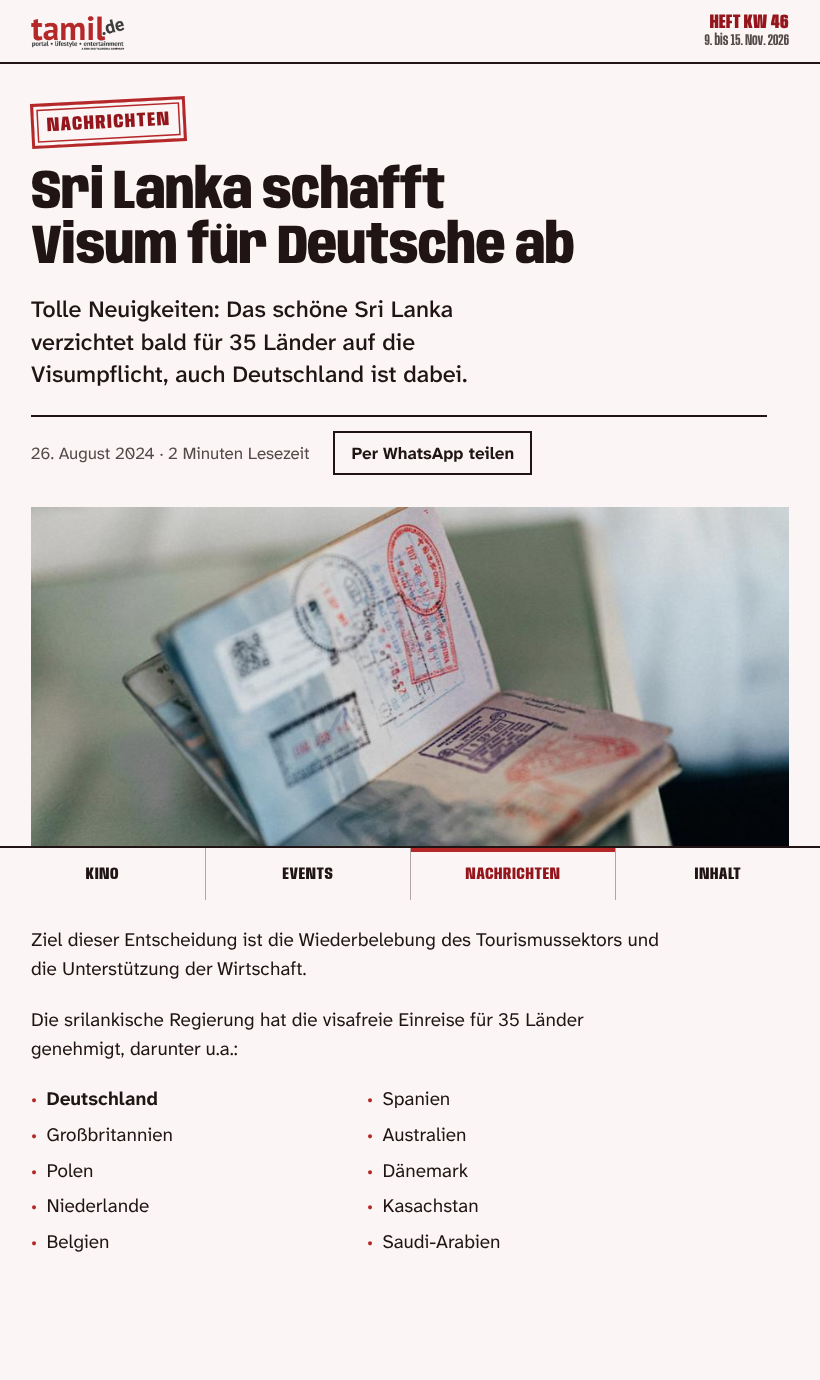
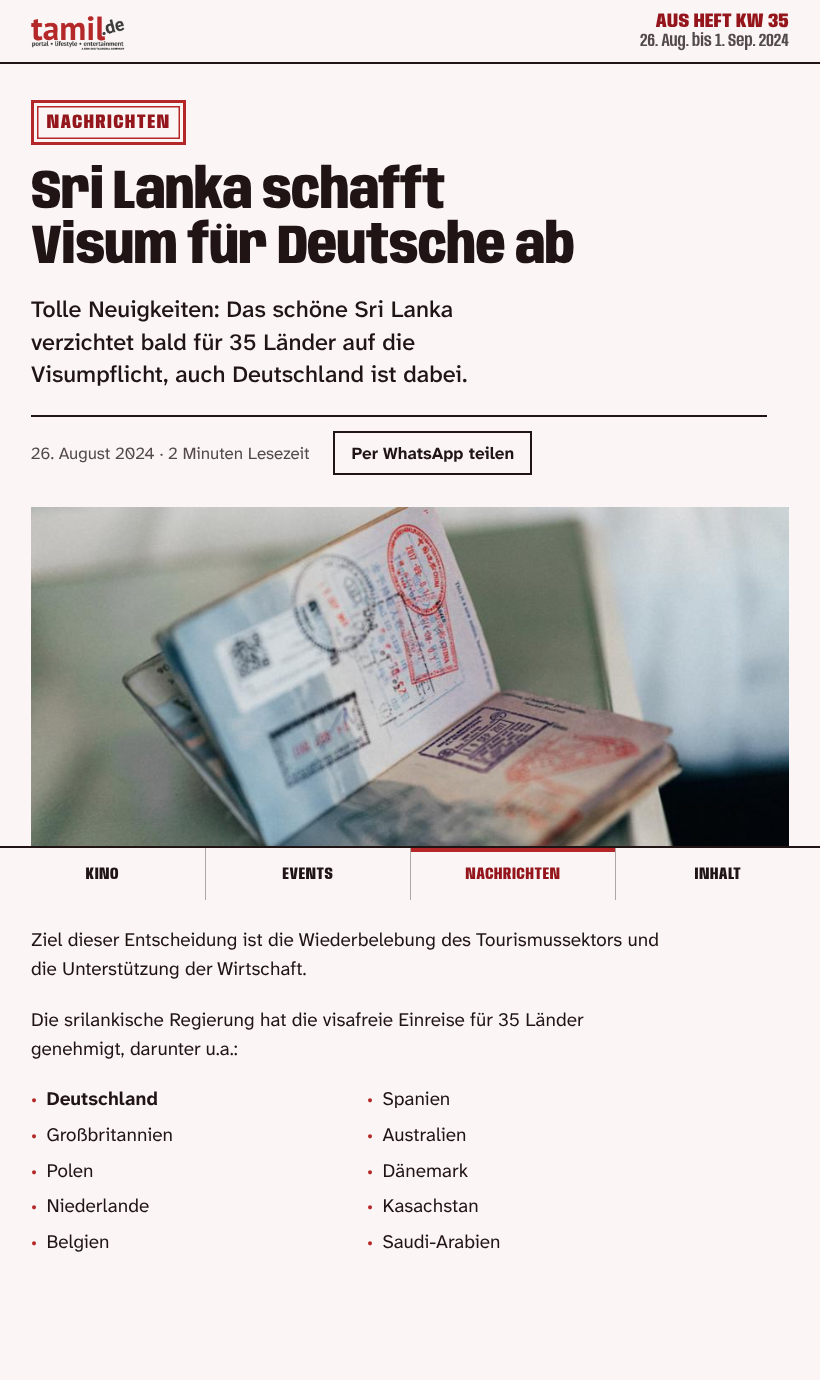
feat(design): Richtungsskizze zine, Runde 2 nach Kritik
Heftkopf und Coverzeile am Handy im Cover, Heftkennung nach Originaldatum des
Beitrags, Foto am Handy heller und ohne Raster, Titel als Überdruck im Bild,
Aushänge mit Absender und WhatsApp-Link.

Claude-Session: https://claude.ai/code/session_01VBg2WFSs9tPNRidQXUcJan

Changed region(s): [[0.0305, 0.0623, 0.2439, 0.1246], [0.7927, 0.0, 0.9756, 0.0312]]

diff --git a/design/richtungen/zine/zine.css b/design/richtungen/zine/zine.css
@@ -170,6 +170,7 @@ ul { padding: 0; list-style: none; }
 .cover-flaeche:focus-visible { outline-offset: 8px; }
 
 .heft { display: none; }
+.cover-links { display: block; }
 
 /* Coverzeile der Redaktion: die Stimme der Woche, eigenes Feld */
 .cover-ruf {
@@ -202,7 +203,7 @@ ul { padding: 0; list-style: none; }
   aspect-ratio: 4 / 3;
   object-fit: cover;
   object-position: 48% 30%;
-  filter: grayscale(1) contrast(1.55) brightness(1.95);
+  filter: grayscale(1) contrast(1.3) brightness(2.35);
   mix-blend-mode: screen;
 }
 /* feines Kopierraster, erst wo das Bild groß genug dafür ist */
@@ -519,7 +520,7 @@ body { padding-bottom: 3.5rem; }
 /* ---------- Artikel: still ---------- */
 .artikel { padding: 2.25rem var(--rand) 4rem; }
 .artikel-kopf { max-width: 46rem; }
-.stempel--rubrik { rotate: -3deg; padding: 0; }
+.stempel--rubrik { padding: 0; }
 .stempel--rubrik a {
   display: block;
   padding: 0.65rem 0.8rem 0.55rem;
@@ -583,7 +584,7 @@ body { padding-bottom: 3.5rem; }
 
 /* ---------- ab Tablet ---------- */
 @media (min-width: 560px) {
-  .druck img { aspect-ratio: auto; filter: grayscale(1) contrast(1.45) brightness(1.7); }
+  .druck img { aspect-ratio: auto; filter: grayscale(1) contrast(1.3) brightness(2.3); }
   .druck::after { display: block; }
   .coverwort { font-stretch: 75%; font-size: 24cqi; }
   .aushaenge { grid-template-columns: repeat(2, minmax(0, 1fr)); align-items: start; }
@@ -602,9 +603,6 @@ body { padding-bottom: 3.5rem; }
   }
   .heft {
     display: block;
-    grid-column: 1 / 5;
-    grid-row: 1;
-    align-self: start;
     font-family: var(--display);
     line-height: 0.9;
   }
@@ -637,29 +635,34 @@ body { padding-bottom: 3.5rem; }
   .seite-start .heftzeile { display: none; }
   .seite-start .kopf { border-bottom: var(--linie); align-items: center; padding-top: 0.5rem; }
   .cover { padding-top: 2rem; }
+  .cover-links {
+    grid-column: 1 / 5; grid-row: 1;
+    align-self: stretch;
+    display: flex; flex-direction: column; justify-content: space-between; gap: 1.5rem;
+    padding-bottom: 10.5cqi;  /* Platz für das Coverwort, das von unten hereinragt */
+  }
   .cover-ruf {
-    grid-column: 1 / 5; grid-row: 2; align-self: end;
-    padding: 0.8rem 0 0; margin-bottom: 0.4em;
+    padding: 0.8rem 0 0;
     font-size: clamp(1.75rem, 0.6rem + 2.2vw, 2.6rem);
   }
-  .druck { grid-column: 5 / 13; grid-row: 1 / 3; justify-self: end; }
+  .druck { grid-column: 5 / 13; grid-row: 1; justify-self: end; align-self: start; }
   .druck .stempel { left: -1.5rem; right: auto; top: 1.25rem; rotate: -5deg; font-size: 1.5rem; }
   .cover-titel { mix-blend-mode: normal; }
   .cover-titel { display: contents; }
   .coverwort {
-    grid-column: 1 / -1; grid-row: 3;
+    grid-column: 1 / -1; grid-row: 2;
     position: relative; z-index: 1;
     mix-blend-mode: multiply;
     font-stretch: 120%; font-size: 15.4cqi; margin-top: -0.45em;
   }
   .coverzeile {
-    grid-column: 1 / 8; grid-row: 4; align-self: start;
+    grid-column: 1 / 8; grid-row: 3; align-self: start;
     max-width: 20ch; margin-top: 1.1rem;
     font-size: clamp(2rem, 0.9rem + 2.4vw, 3.1rem);
   }
   .cover-unten {
     grid-column: 8 / -1;
-    grid-row: 4;
+    grid-row: 3;
     align-self: start;
     margin-top: 1.3rem;
     padding-left: 1.25rem;
@@ -670,8 +673,8 @@ body { padding-bottom: 3.5rem; }
 
   .brett { padding-top: 3.5rem; padding-bottom: 5rem; }
   .brett-kopf { display: flex; align-items: flex-end; justify-content: space-between; gap: 2rem; }
-  .brett-kopf h2 { font-stretch: 100%; font-size: 11cqi; }
-  .brett-kopf p { max-width: 16ch; text-align: right; margin: 0 0 0.4rem; }
+  .brett-kopf h2 { flex: none; font-stretch: 100%; font-size: 9.6cqi; }
+  .brett-kopf p { max-width: 22ch; text-align: right; margin: 0 0 0.4rem; }
 }
 
 @media (min-width: 1100px) {

diff --git a/design/richtungen/zine/index.html b/design/richtungen/zine/index.html
@@ -40,6 +40,7 @@
          Die ganze Fläche führt zum Artikel; der zugängliche Name ist nur die Überschrift. -->
     <article class="cover" id="cover">
       <a class="cover-flaeche" href="#" aria-labelledby="cover-titel">
+        <span class="cover-links">
         <span class="heft" aria-hidden="true">
           <span class="heft-wort">Heft</span>
           <span class="heft-nr">KW&nbsp;45</span>
@@ -48,6 +49,7 @@
         <!-- Coverzeile der Redaktion: eigenes Feld, jede Woche neu.
              In der Skizze nur Worte aus dem echten Vorspann von Beitrag 9711, nichts erfunden. -->
         <span class="cover-ruf"><span class="cover-ruf-zeichen">„</span>Mit Spannung erwartet<span class="cover-ruf-zeichen">“</span></span>
+        </span>
         <span class="druck">
           <img src="../../../prototyp/static/img/p9711.jpg" width="1024" height="538" alt="">
           <span class="stempel">Kino</span>

diff --git a/design/richtungen/zine/begruendung.md b/design/richtungen/zine/begruendung.md
@@ -70,7 +70,7 @@ Brett, nicht über Platten hinter Text.
 
 **Das Wochen-Cover im Zweifarbdruck:** ein Coverwort in riesiger gestauchter Anybody, ein in Rot gedrucktes Foto,
 leicht schief eingeklebt und das Coverwort anschneidend, ein roter Gummistempel mit der Rubrik und die
-Heftzeile „Heft KW 46“ (die echte Kalenderwoche vom 9. bis 15. November 2026, keine erfundene Ausgabennummer).
+Heftzeile „Heft KW 45“ (die Kalenderwoche des Originaldatums, siehe Runde 2; keine erfundene Ausgabennummer).
 Darunter, als zweites Erkennungszeichen: **Aushänge mit Abreißzetteln**, bei denen jeder Spielort ein Streifen
 ist. 11 Kinos ergeben eine lange gestrichelte Reihe, 2 Kinos eine kurze.
 
@@ -115,3 +115,38 @@ ist. 11 Kinos ergeben eine lange gestrichelte Reihe, 2 Kinos eine kurze.
   wie die letzte Heftseite alle Rubriken groß aufführt. Am Desktop steht die Rubrikzeile oben.
 - Teilen im Artikel: ein normaler Link zu WhatsApp (`wa.me`), kein Skript.
 - Kein JavaScript.
+
+## Runde 2 (nach `design/kritik/zine-r1.md`)
+
+- **P1-1a, Heft am Handy:** Auf der Startseite ist der Kopf am Handy der Heftkopf des Covers: Logo links,
+  „HEFT KW 45“ rechts in Rot und groß (56 px, gestauchte Anybody), darunter das Wochendatum in 18 px. Keine Linie
+  zwischen Kopf und Cover; die erste Linie trennt erst Heftkopf und Coverzeile. Marke, Ausgabe und Coverwort stehen
+  so im ersten Bildschirm als Einheit. Ab 760 px bleibt das große „KW 45“ links im Cover.
+- **P1-1b, Haltung:** Das Cover hat ein eigenes Feld **Coverzeile der Redaktion** (`.cover-ruf`): eine kurze
+  Zeile in Anführungszeichen, die die Redaktion jede Woche schreibt (Richtwert bis 40 Zeichen). Sie steht am Handy
+  zwischen Heftkopf und Foto, am Desktop links unter „KW 45“. In der Skizze stehen dort nur Worte aus dem echten
+  Vorspann von Beitrag 9711: „Mit Spannung erwartet“. Nichts erfunden; im Quelltext als Platzhalter kommentiert.
+- **P2-4, Heftdatum:** Die Heftkennung folgt dem Originaldatum des Beitrags. Kanguva ist vom 6. November 2024, also
+  „Heft KW 45, 4. bis 10. November 2024“. Damit liest niemand einen Kinostart in der laufenden Woche. Der Artikel
+  zeigt im Kopf „Aus Heft KW 35, 26. Aug. bis 1. Sep. 2024“ (Beitrag vom 26. August 2024). Regel fürs Theme: Ein
+  Cover trägt immer die Woche seines Beitrags, nie die laufende Woche.
+- **P2-2 und P2-3, Foto und „rote Platte“:** Am Handy wird das Foto auf 4:3 um das Gesicht geschnitten, heller
+  gedruckt (mehr Papier, weniger Vollton) und ohne Raster gezeigt; das Raster kommt erst ab 560 px. Auch am Desktop
+  ist der Druck heller. „KANGUVA“ greift jetzt rund die halbe Buchstabenhöhe ins Bild und wird als Überdruck
+  (`mix-blend-mode: multiply`) gedruckt, nicht bündig an die Bildkante gestellt.
+- **P2-1, das Tamil-Eigene sichtbar:** Der Diwali-Aushang hat den Verein als Absender („Aushang von“ und ein
+  Tintenstempel „Basel Tamil Sangam“) statt der allgemeinen Marke „Fest“. Jeder Aushang endet mit „Per WhatsApp
+  weiterschicken“: das ist der Abreißzettel von heute, so wie Termine in der Community wirklich weiterwandern
+  (Familiengruppen). Die Unterzeile des Bretts sagt das: „Zum Weiterschicken an die Familie.“ Keine tamilische
+  Schrift, nichts von der Verbotsliste.
+- **P2-1 und P3-4, weniger Baukasten:** Gedreht sind nur noch das Cover-Foto und der Stempel „Kino“. Aushänge und
+  Datumstempel stehen gerade, Text ist nie gedreht.
+- **P2-5, zweite Tonlage:** Klasse `.cover--nachricht` für Nachrichten-Cover: Foto in Graustufen auf Papier, nicht
+  gedreht, Rot nur im Rubrikstempel. Der Rotdruck bleibt Kino, Kultur und Community vorbehalten.
+- **P2-6, Linkname:** Der Cover-Link trägt `aria-labelledby` auf die Überschrift; das Bild im Link hat `alt=""`
+  (die Beschreibung gehört in den Artikel).
+- **P3-2:** „und 6 weitere Städte“ sieht aus wie die anderen Zettel, nicht wie ein Knopf.
+- **P3-3:** Heftzeile 18 px, Breite 75 %. **P3-6:** Coverwort am Desktop breiter geschnitten und kleiner (Breite
+  120, 15,4 cqi), damit Coverwort und Titel bei 1280 × 900 gemeinsam im ersten Bildschirm stehen.
+- Offen: P3-1 (Grundton bleibt unverändert kühl), P3-5 (doppelte Navigationsziele) erst im Theme.
+
